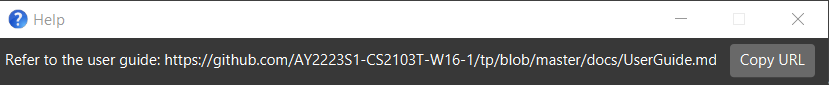
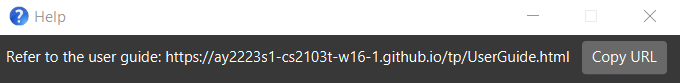
Replace help message

diff --git a/src/main/java/seedu/guest/ui/HelpWindow.java b/src/main/java/seedu/guest/ui/HelpWindow.java
@@ -16,7 +16,7 @@ import seedu.guest.commons.core.LogsCenter;
 public class HelpWindow extends UiPart<Stage> {
 
     public static final String USERGUIDE_URL =
-            "https://github.com/AY2223S1-CS2103T-W16-1/tp/blob/master/docs/UserGuide.md";
+            "https://ay2223s1-cs2103t-w16-1.github.io/tp/UserGuide.html";
     public static final String HELP_MESSAGE = "Refer to the user guide: " + USERGUIDE_URL;
 
     private static final Logger logger = LogsCenter.getLogger(HelpWindow.class);
